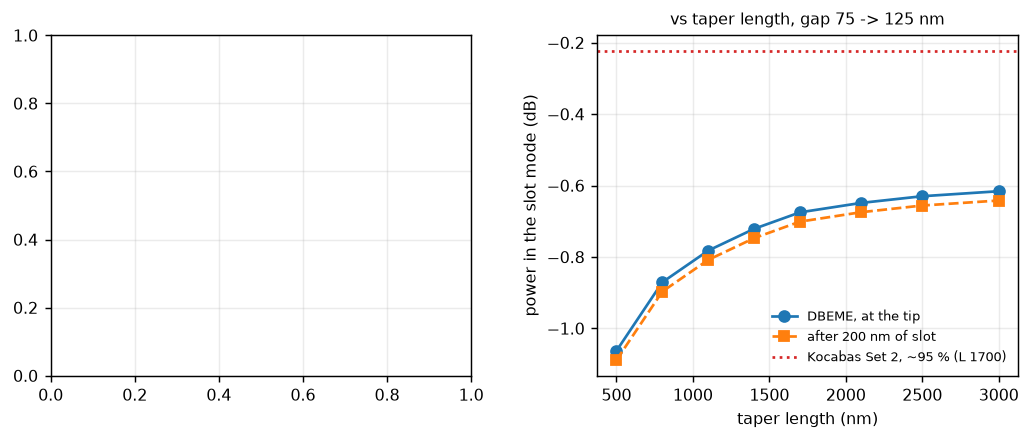
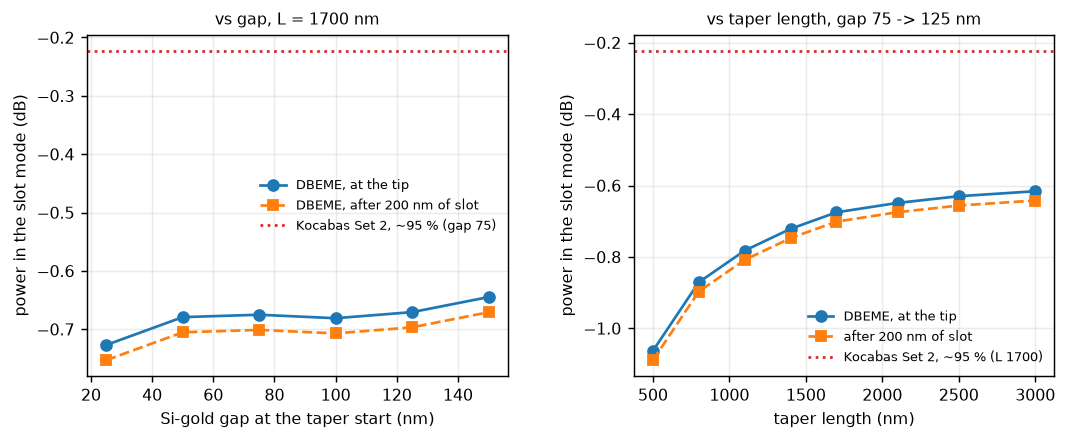
Report 13 section 4 on the converged platform: the gap sweep is flat, the length sweep is the roll-off
Exported from the private repository: this commit also changed files that are
not public, and its full message is kept there.

diff --git a/reports/13_kocabas_converter.md b/reports/13_kocabas_converter.md
@@ -207,9 +207,81 @@ the paper, in the order they should be tested:
 
 ## 4. Transmission against the Si–gold gap and against taper length
 
+*Rewritten 2026-09-21 on the converged platform of §10 — the finite-element
+mesh with 20 nm-rounded corners and the gold wall stepping 1 nm
+(`SiO2_kocabas_set2_1550_fem_c20_hs1`). The first pass on the sharp-corner
+5 nm grid is kept at the end of the section; its gap dependence turned out
+to be the staircase, not the device.*
+
+![sweeps](output/kocabas_2_sweeps_fem_c20_hs1.png)
+
+### Taper length (gap 75 nm, slot 250 nm; warm cache, 0 s per length)
+
+| `L_taper` | slot mode at the tip | forward Berenger amplitude at the lead-out | reflected |
+|---|---|---|---|
+| 500 nm | 78.3 % (−1.06 dB) | 0.134 | 1.1e-2 |
+| 800 nm | 81.8 % (−0.87 dB) | 0.114 | 2.6e-3 |
+| 1100 nm | 83.5 % (−0.78 dB) | 0.086 | 4.7e-4 |
+| 1400 nm | 84.7 % (−0.72 dB) | 0.066 | 8.5e-4 |
+| **1700 nm (paper)** | **85.6 % (−0.68 dB)** | 0.054 | 2.5e-4 |
+| 2100 nm | 86.1 % (−0.65 dB) | 0.050 | 4.4e-4 |
+| 2500 nm | 86.5 % (−0.63 dB) | 0.049 | 1.8e-4 |
+| 3000 nm | 86.8 % (−0.62 dB) | 0.047 | 2.4e-4 |
+
+Monotonic, flattening beyond ~2 µm, the scattered amplitude falling with
+`L` and the reflection faster: the adiabatic roll-off, with the paper's
+1700 nm again at the knee. The plateau near 87 % is the slot mode's own
+propagation loss over the taper (`L_p` = 33 µm) plus the residual
+staircase of §10 (2.1 % wall, 1.1 % Si), and nothing else — the
+length-independent basis floor of the first pass (§3) is gone.
+
+### Si–gold gap at the taper start (`w_gap`; slot end fixed at 250 nm, `L` = 1700 nm)
+
+`w_gap` sets the Si–gold clearance where the taper starts; at the tip it is
+fixed by the slot at 125 nm, so the parameter chooses how far the gold wall
+travels relative to the Si edge over the taper.
+
+| `w_gap` | clearance along the taper | sections | slot mode at the tip | forward Berenger amplitude | reflected |
+|---|---|---|---|---|---|
+| 25 nm | 25 → 125 nm | 182 | 84.6 % (−0.73 dB) | 0.073 | 3.0e-4 |
+| 50 nm | 50 → 125 nm | 207 | 85.5 % (−0.68 dB) | 0.061 | 1.9e-4 |
+| **75 nm (paper)** | 75 → 125 nm | 232 | **85.6 % (−0.68 dB)** | 0.054 | 2.5e-4 |
+| 100 nm | 100 → 125 nm | 257 | 85.5 % (−0.68 dB) | 0.064 | 6.1e-4 |
+| 125 nm | 125 nm, constant | 282 | 85.7 % (−0.67 dB) | 0.055 | 7.7e-4 |
+| 150 nm | 150 → 125 nm | 307 | 86.2 % (−0.64 dB) | 0.072 | 1.1e-3 |
+
+**Flat to within 1.6 points across the whole range**, and with no interior
+optimum — the paper's 75 nm is not reproduced as one, and neither is any
+other value. The first pass had read a 4.9-point fall from 125 to 25 nm
+and could not tell the physics from its own 5 nm wall steps (the
+sharp-corner section below); with the wall stepping 1 nm the same sweep
+moves by a point, and the ordering is the mild one expected of a mode that
+is barely bound at the wide end: a wall that starts closer (25 nm) perturbs
+the wire mode a little more per step and costs a point, a wall that starts
+farther (150 nm) has more sections and a longer effective transition and
+gains half a point. So at this converter's length the starting gap is not
+a design parameter; the length is. On the paper's own definition (§9) each
+of these would read about six points higher.
+
+**One path needed a fix in the cascade.** The 50 nm sweep first came back
+with 3.6 % reflection and a deficit of −1.4 % — the cascade returning more
+power than launched. At one interface, `(150, 171) → (145, 171)` nm, the
+twentieth mode of the shift-invert window changed identity between the two
+points (a continuum mode with no partner, best overlap 0.30); the tracker's
+forced bijection then left the interface matrix `O_abᵀ + O_ba` with a
+singular value at 1.1e-3 of its largest, just above the scattering route's
+pseudo-inverse cutoff of 1e-3, and the projection returned 3.2× a physical
+input's power through it. Any cutoff from 2e-3 to 3e-2 repairs the path
+(85.5 %, reflection 2e-4) and moves the design and 25 nm paths by nothing
+to four digits; the cutoff is 1e-2 now (`SingleEME.INTERFACE_RCOND`,
+CLAUDE.md §5.13a, `examples/kocabas_interface_passivity.py` for the
+per-interface check). Every number in this section is recomputed under it.
+
+### The first pass — the sharp-corner 5 nm grid (kept for the record)
+
 ![sweeps](output/kocabas_2_sweeps.png)
 
-### Taper length (gap 75 nm, slot 250 nm, warm cache — every length is a new path over the same grid points)
+#### Taper length (gap 75 nm, slot 250 nm, warm cache — every length is a new path over the same grid points)
 
 | `L_taper` | slot mode at the tip | scattered (Berenger) amplitude at the lead-out | reflected |
 |---|---|---|---|
@@ -231,7 +303,7 @@ length-independent part is the staircase and basis loss of §3, and the
 supermode's metal loss grows with `L` (0.957 at 1700 nm) and takes over
 beyond it.
 
-### Si–gold gap at the taper start (`w_gap`; slot end fixed at 250 nm, `L` = 1700 nm)
+#### Si–gold gap at the taper start, first pass
 
 `w_gap` sets the Si–gold clearance where the taper *starts*; the clearance at
 the tip is fixed by the slot at 125 nm. So the parameter really chooses how
@@ -260,7 +332,8 @@ efficiency, the ordering does not contradict it, and the paper's own choice of
 75 nm is not reproduced as an optimum — this model has no interior optimum in
 `w_gap`, exactly as report 12's device had none in length. Testing it properly
 needs the gap axis refined to 2.5 nm and the comparison made at fixed section
-count, which is the same convergence question as §3(i).
+count, which is the same convergence question as §3(i). *(Answered above:
+with the wall at 1 nm the sweep is flat.)*
 
 ## 5. DBEME vs direct EME
 
@@ -317,6 +390,9 @@ grid points solves nothing new. A direct EME pays ~9 900 s for each of them.
    back-propagated — is 91.6 % on the same cascade (§9), against his ~95 %.
    What remains is a percent of Si staircase, a percent or two of wall, and
    the sharp-rectangle geometry; no numerical setting of the model is left.
+   On this platform the taper length is the design parameter (78 % at
+   500 nm, 87 % at 3 µm) and the starting gap is not (flat within 1.6
+   points from 25 to 150 nm, §4).
 1. The lossy PML backend runs a two-axis dataset end to end on a device with
    a published geometry, and lands at **72.3 % modal conversion** on the 5 nm
    grid and **78.9 %** on the 2.5 nm one with the paper's sharp corners,
@@ -894,6 +970,13 @@ scheduled onto the E-cores — §8's 739 s per point was 161 s of solve.
 On the finite-difference platform the same 1 nm wall would have needed a
 1 nm grid over the wall strip and the anisotropic-corner fix of §7 — at
 2.5 nm that dataset already cost 83.4 % and twice the unknowns.
+
+**The sweeps on this platform** are in §4: the length curve is the same
+adiabatic roll-off as before, five points higher throughout, and the gap
+sweep is flat (84.6–86.2 % from 25 to 150 nm) where the first pass had
+read a strong dependence — that dependence was the 5 nm wall staircase.
+The gap sweep cost 1 250 new points over 51 h, most of it at half pace
+beside another session's build; the length sweep cost nothing.
 
 ---
 

diff --git a/README.md b/README.md
@@ -419,7 +419,8 @@ and that number is converged: 40 modes give 82.9 %, the finite-element mesh
 80.7 % with the wall still stepping 5 nm and **85.6 %** with it stepping
 1 nm (§8, §10) — and under the paper's own measure, total forward flux
 1100 nm past the tip back-propagated, computed from the same cascade
-(§9), **91.6 %**, where the paper reports ~95 %; the deficit is 0.22 dB of
+(§9), **91.6 %**, where the paper reports ~95 %; on that platform the
+gap sweep is flat (84.6–86.2 % over 25–150 nm) and only the length matters; the deficit is 0.22 dB of
 staircase mismatch, 0.19 dB of the supermode's own metal loss, and amplitude
 scattered into the Berenger set. Two results matter more than the number.
 **The converter is adiabatic here**: transmission rises monotonically with
@@ -451,6 +452,54 @@ where they differ by ~2e-5 in the guided block and ~1e-3 in the radiation
 block. Neither number there is physics, which is why lossless data keeps its
 published route. `examples/verify_smatrix_routes.py` is the gate;
 [reports/06](reports/06_pml_phase1_gate.md) has the measurements.
+
+## Circuit layer
+
+DBEME cascades cross sections along `z`; it cannot close a loop. A ring, a
+Mach-Zehnder, a coupled-resonator filter are *circuits* of DBEME building
+blocks, and `em_simulation/circuit/` is where those blocks become circuit
+models (task 11). It is a consumer of S-matrices downstream of
+`FDEBackend`, not a backend.
+
+* **sax is the interface.** Every model is a sax model: a keyword-only
+  function of the wavelength `wl` **in microns** returning a reciprocal
+  `SDict` with `jnp` values, so gradients flow. `sax_model_from_samples`
+  turns an S-matrix sampled at a few solved wavelengths into one:
+  magnitude by a monotone cubic, phase through a polynomial fit of its
+  *optical length* after unwrapping against a reference whose group index
+  is right (`phase_fit.py`; a linear index between samples staircases the
+  delay, and a plain unwrap fails past ~30 um at 10 nm steps).
+  `waveguide.py` has straight, arc and ideal-coupler models; `ring.py` the
+  analytical all-pass / add-drop ring (Bogaerts 2012, Yariv 2000) that
+  every ring number is checked against; `roughness.py` a Payne-Lacey
+  sidewall-scattering estimate. Importing the package enables JAX float64.
+* **circulax** (`.venv-circuit`, pinned apart because it needs jax < 0.10
+  and sax >= 0.15) compiles the same sax models unchanged; its steady-state
+  solve batched over wavelength reproduces the sax spectrum of a ring to
+  1e-9. S-matrix components are memoryless, so for the time domain
+  `circuit/circulax_ext.py` adds an envelope delay line on circulax's own
+  component API (a plugin, not a fork): the ring-down of a ring then
+  matches `Q lambda / (2 pi c)` to 0.1 % (`tests_circuit/`, run in
+  `.venv-circuit`). The layer is there for what comes after the ring:
+  modulator-loaded rings, thermal tuning, laser + modulator + ring link
+  budgets, gradient-based design of a CPO channel.
+* **The ring** (`examples/demo_ring_resonator.py`, `reports/15`): the
+  bus-ring point coupler is one DBEME path per gap over a dataset whose
+  ring core moves while the bus stays fixed (`platforms.BusRingStrips`);
+  the arc is the bent strip's `n_eff(lambda, 1/R)` with a loss budget from
+  the PML solver (radiation) and the roughness model. Two lessons from
+  building it are in `tasks/11` section 2.1: tie a moving edge's axis to
+  the cell, and expect a translating guide to shed its mismatch at every
+  interface regardless of mode count - the bus side is exact, the ring
+  side is imposed by symmetry.
+* **The workflow for circuit design** (`reports/17`, `tasks/14`): blocks
+  as sax models of geometry and wavelength built from a dataset's own
+  quantities, a differentiable circuit with a band-wise loss, Adam over
+  lengths, then the composed blocks verified as DBEME cascades on cached
+  points and the design handed to circulax. A 4-channel cascaded
+  Mach-Zehnder demux (circulax's example 03) reaches 90 % contrast with
+  the coupler's real dispersion in the loop; `reports/16` adds the
+  electro-optic ring modulator.
 
 ## Defining your own platform
 

diff --git a/CLAUDE.md b/CLAUDE.md
@@ -87,6 +87,7 @@ dataset.
 | `Si_plasmonic_slot_1550[_sharp]` | Si wire between gold walls, suspended, lossy PML basis | `w_si` | lateral stand-in for the NTT converter | **shipped** — `reports/12` |
 | `SiO2_kocabas_set2_1550` | Si wire + gold slot, SiO₂-embedded, lossy PML basis | `w_si`, `gap` | Kocabaş converter (arXiv:1801.00833), gap and length sweeps | **shipped** — `reports/13` |
 | `SiO2_kocabas_set2_1550_fem_c20_hs1` | same, rounded corners, FEM mesh, wall axis at 1 nm | `w_si` (5 nm), `half_slot` (1 nm) | the converged Kocabaş numbers; gap sweep | **shipped** — `reports/13` §10 |
+| `Si_ring_coupler_220nm_<1530|1550|1570>[_N6..N30|_c20]` | straight bus + moving ring core, bus fixed (`platforms.BusRingStrips`) | `w1`, `w2`, `gap` (10 nm cell, axis tied to the cell) | bus-ring point coupler of the all-pass ring | **shipped** - `reports/15`; ring side of the coupler is imposed by symmetry, see tasks/11 section 2.1 |
 
 *What a two-axis dataset costs, measured.* `SiO2_kocabas_set2_1550` is
 471 × 347 at a 5 nm cell with 20 modes: **~10 min per cross section**, so the
@@ -549,7 +550,7 @@ at 1550 nm.
 | 2. polarization rotator | ✗ needed | ✗ needed (§5.11) | ✗ needed | – | after §5.11 + §5.12 + §5.14 |
 | 3. rapid adiabatic coupler | ✗ needed | – | ✗ needed (§5.14, §5.15) | – | after §5.12 + §5.14 |
 | 4. plasmonic converter | metal | – | – | ✓ `PMLBackend` (§5.9, §5.16a/b done) | **2-D lateral model shipped** — `reports/12`; the 3-D taper still needs a second geometric axis |
-| 4b. Si-to-slot converter, SiO₂-embedded | metal, 2 axes | – | – | ✓ `PMLBackend`, `FemwellBackend` | **shipped, converged** — `reports/13`; 72.3 % modal with sharp corners; with 20 nm-rounded corners 82.4 % (FD 5 nm) / 80.7 % (FEM, 5 nm wall) / **85.6 % (FEM, 1 nm wall)**, and **91.6 % under Kocabaş's own measure** (total flux at his cut, §9–§10) vs his ~95 % — the rest is a percent of Si staircase and the sharp-rectangle geometry. The first plasmonic device here that is adiabatic (T rises with `L`) |
+| 4b. Si-to-slot converter, SiO₂-embedded | metal, 2 axes | – | – | ✓ `PMLBackend`, `FemwellBackend` | **shipped, converged** — `reports/13`; 72.3 % modal with sharp corners; with 20 nm-rounded corners 82.4 % (FD 5 nm) / 80.7 % (FEM, 5 nm wall) / **85.6 % (FEM, 1 nm wall)**, and **91.6 % under Kocabaş's own measure** (total flux at his cut, §9–§10) vs his ~95 % — the rest is a percent of Si staircase and the sharp-rectangle geometry. Length is the design parameter, the starting gap is not (flat within 1.6 points over 25–150 nm, §4). The first plasmonic device here that is adiabatic (T rises with `L`) |
 
 Build order: **5.12 (coupled pair) → demo 1 → 5.14/5.15 (λ + dispersion) →
 demo 3 → 5.11 (bi-level) → demo 2 → new backend → demo 4.**
